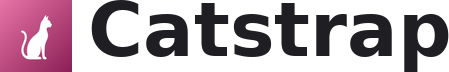
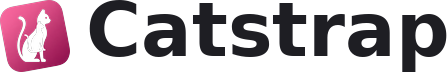
Wordmarks: carré rose penché style Roblox, coins arrondis (v2.0.8)

diff --git a/.cursor/agents/catstrap-icon-specialist.md b/.cursor/agents/catstrap-icon-specialist.md
@@ -9,7 +9,7 @@ Brand identity:
 - **Name:** Catstrap
 - **Color:** dark rose / pink gradient (#E875A8 → #8B2056)
 - **App icon:** `Images/Catstrap.png` — white slim cat silhouette, transparent background (no pink squircle)
-- **Wordmarks (customizable logos):** `Images/Catstrap-Dark.png` (pink icon + white text), `Images/Catstrap-Light.png` (pink icon + dark text). Full app icon (rose squircle + white cat) + Inter SemiBold wordmark, transparent bg, text height matches icon (~72px).
+- **Wordmarks (customizable logos):** `Images/Catstrap-Dark.png` (tilted pink squircle + white text), `Images/Catstrap-Light.png` (tilted pink squircle + dark text). Roblox-style tilted rounded square with gradient + white cat, transparent bg.
 
 When invoked:
 1. Identify where the icon is shown (bootstrapper dialogs, tray, title bar, WPF Image, WinForms PictureBox, .exe icon).
